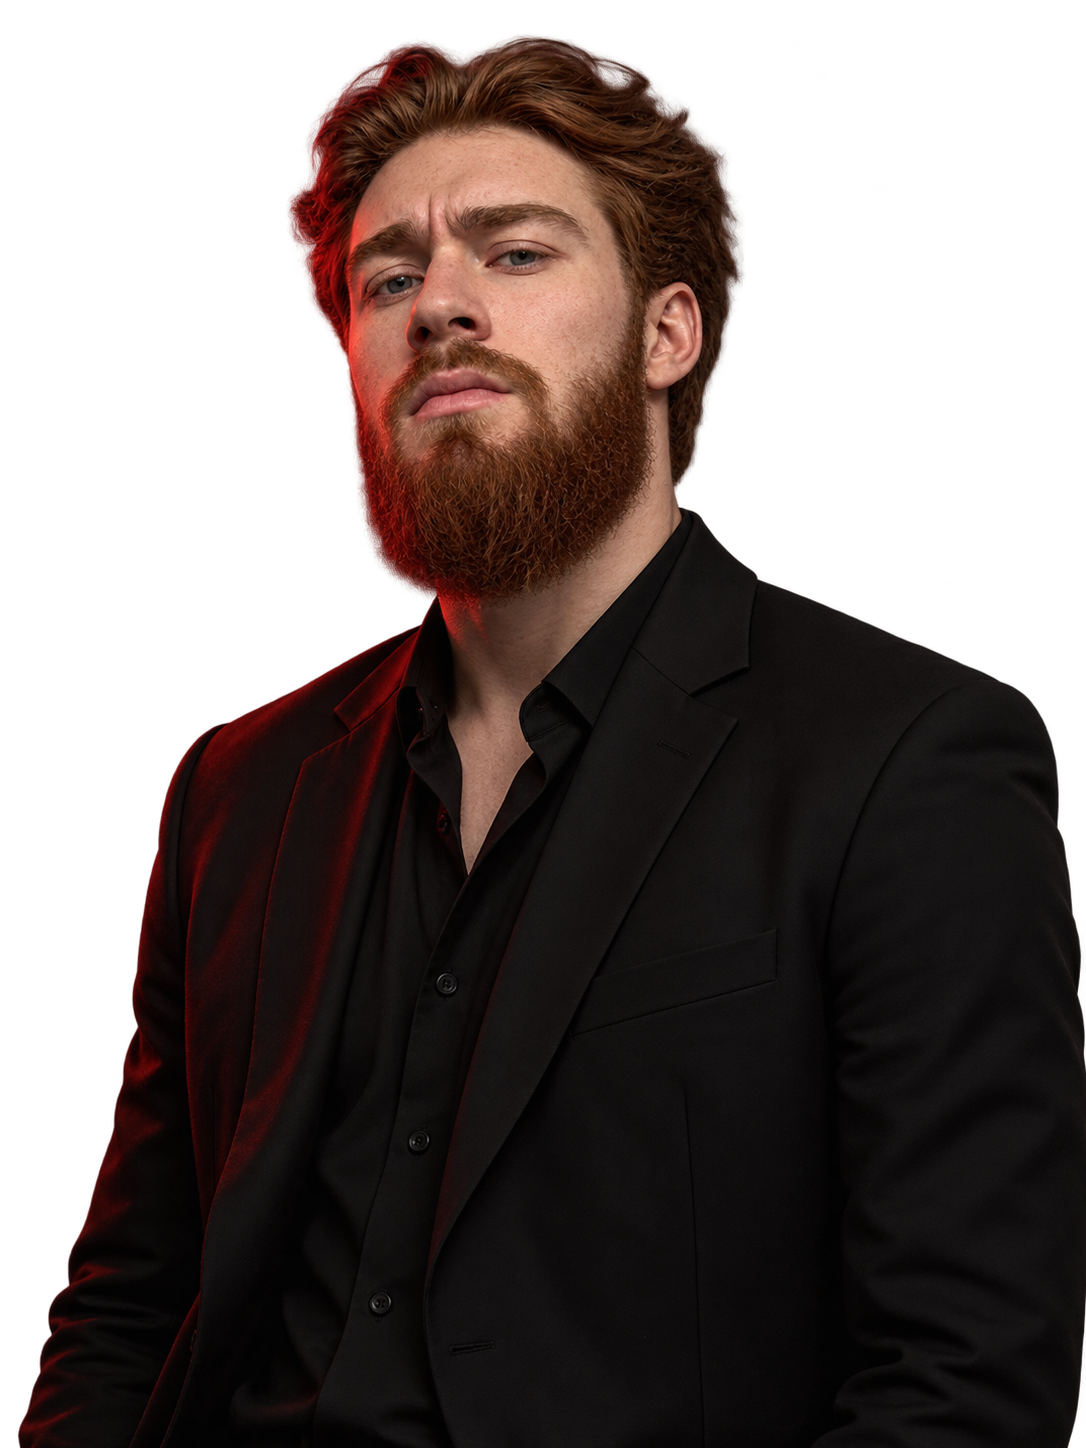
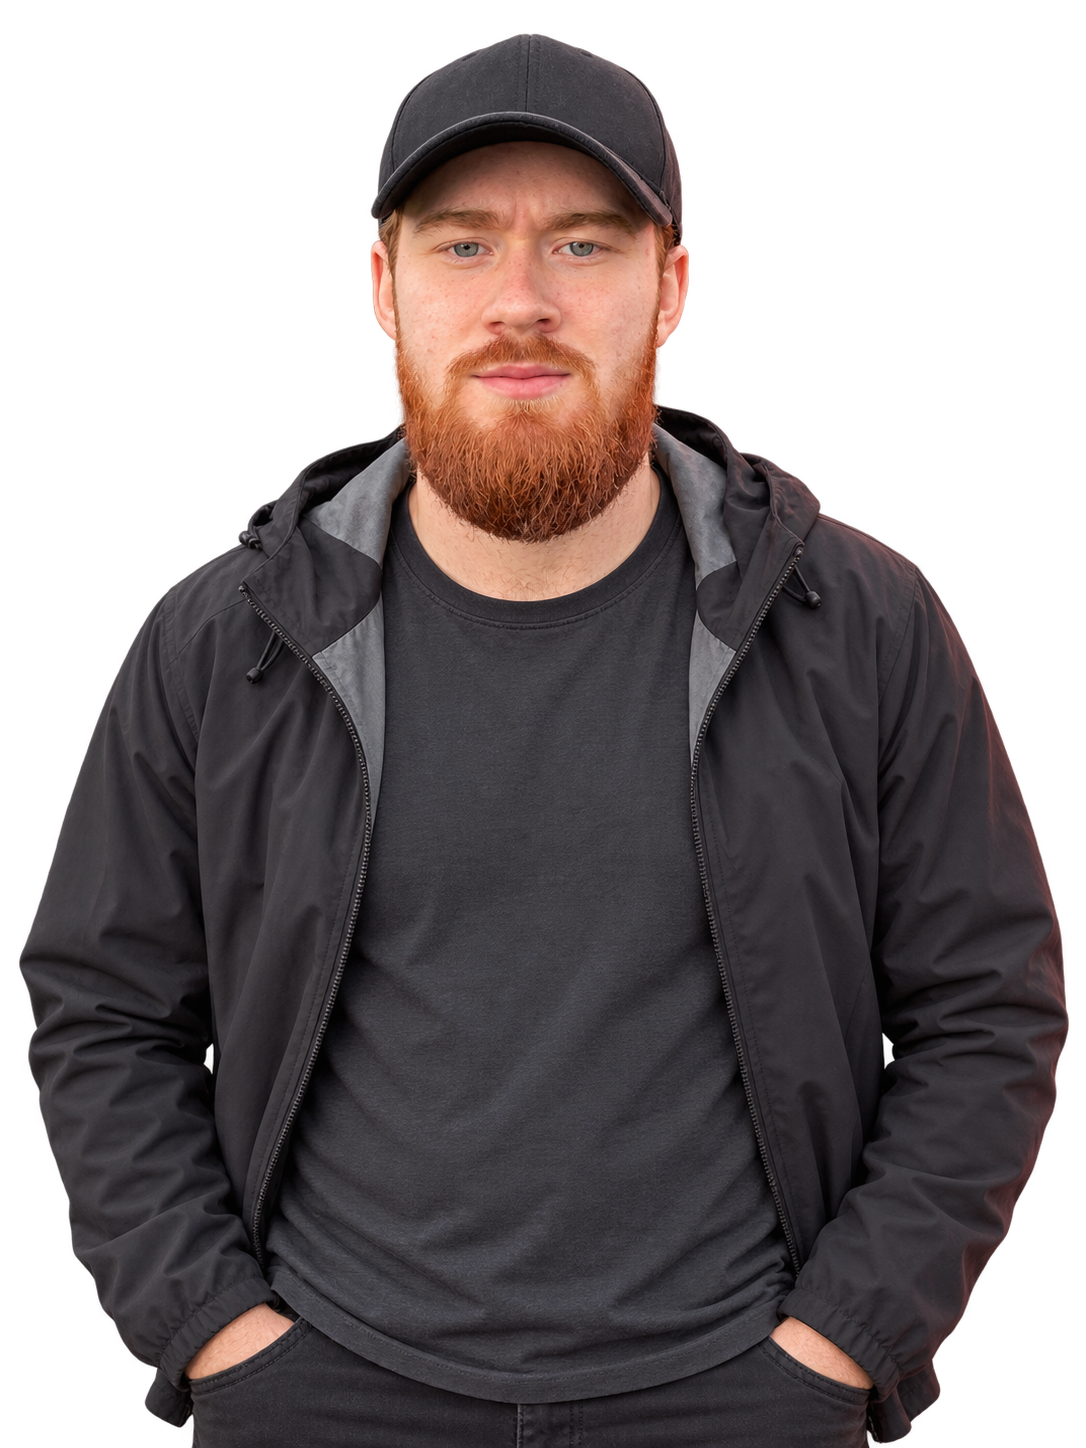
Replace dramatic hero portrait with relaxed everyday portrait

diff --git a/index.html b/index.html
@@ -23,7 +23,7 @@
           <img class="hero-city" src="./public/images/chelyabinsk-river.jpg" alt="" width="1280" height="598" />
           <svg class="backdrop" viewBox="0 0 1400 440" preserveAspectRatio="none" aria-hidden="true"><text x="0" y="405" textLength="1400" lengthAdjust="spacingAndGlyphs">ФОТОГРАФ</text></svg>
           <figure class="portrait">
-            <img src="./public/images/georgiy-portrait.png" alt="Георгий Рожин в чёрном пиджаке с красным боковым светом" width="1088" height="1448" fetchpriority="high" />
+            <img src="./public/images/georgiy-portrait.png" alt="Георгий Рожин в кепке и повседневной куртке" width="1088" height="1448" fetchpriority="high" />
           </figure>
           <div class="introduction">
             <p class="greeting">Привет, я</p>

diff --git a/README.md b/README.md
@@ -15,7 +15,7 @@ npm run dev
 - `src/style.css`: чёрно-красная палитра, выразительная типографика, адаптивная компоновка, обработка фотографий при отображении.
 - `src/main.js`: копирование номера, раскрытие сведений об авторах по обеим якорным ссылкам, отображение настоящих отзывов при наличии данных. FAQ работает нативно через `details`.
 - `src/reviews.js`: список реальных отзывов с полями `name`, `text`, `context`. Сейчас пуст: настоящие отзывы пока не предоставлены. Секция скрыта, фиктивные отзывы и имена не публикуются. После добавления согласованных текстов карточки появятся автоматически.
-- `public/images/georgiy-portrait.png`: портрет, созданный по предоставленному пользователем фото лица и дизайн-референсу.
+- `public/images/georgiy-portrait.png`: спокойный повседневный портрет в кепке и куртке, подготовленный по новой фотографии пользователя. Прозрачный фон; мягкий естественный свет.
 - `public/images/chelyabinsk-*.jpg`: реальные фотографии локаций Челябинска с Wikimedia Commons. Это не портфолио фотографа.
 - `public/images/reference-*.jpg`: портреты других авторов с Pexels для блока «Можем попробовать». Это не работы Георгия и не фотографии, снятые в Челябинске. Рядом предложены местные локации, под которые можно адаптировать идею.
 - `public/images/reference-credits.json`: авторы, страницы оригиналов и лицензия Pexels.
